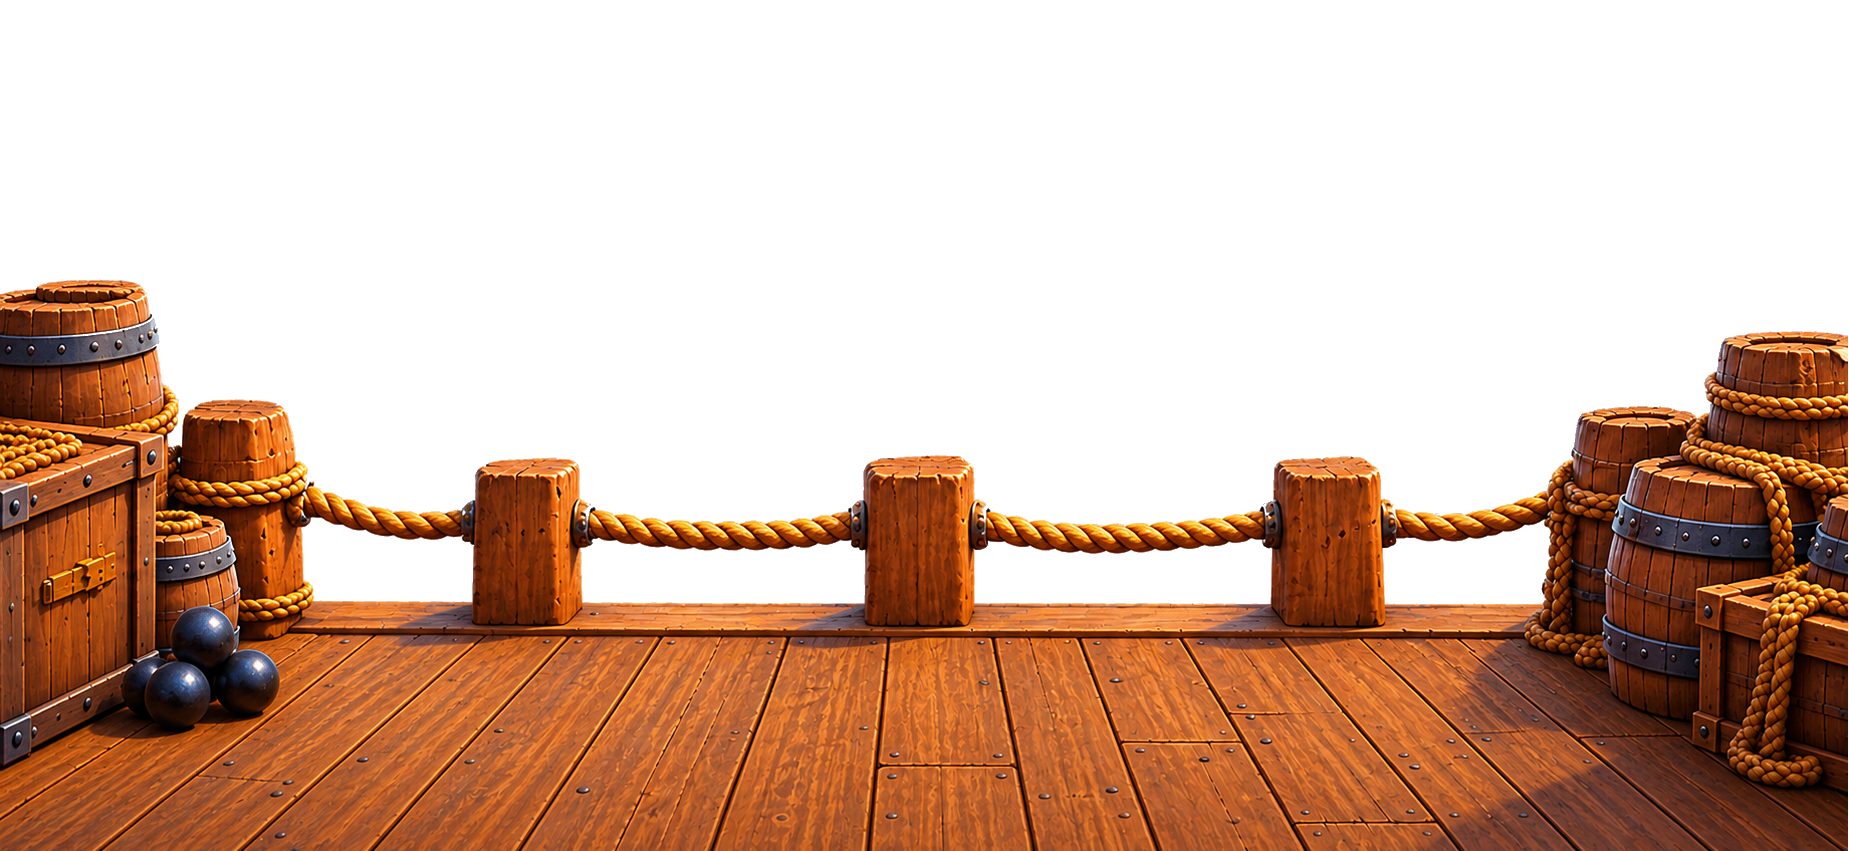
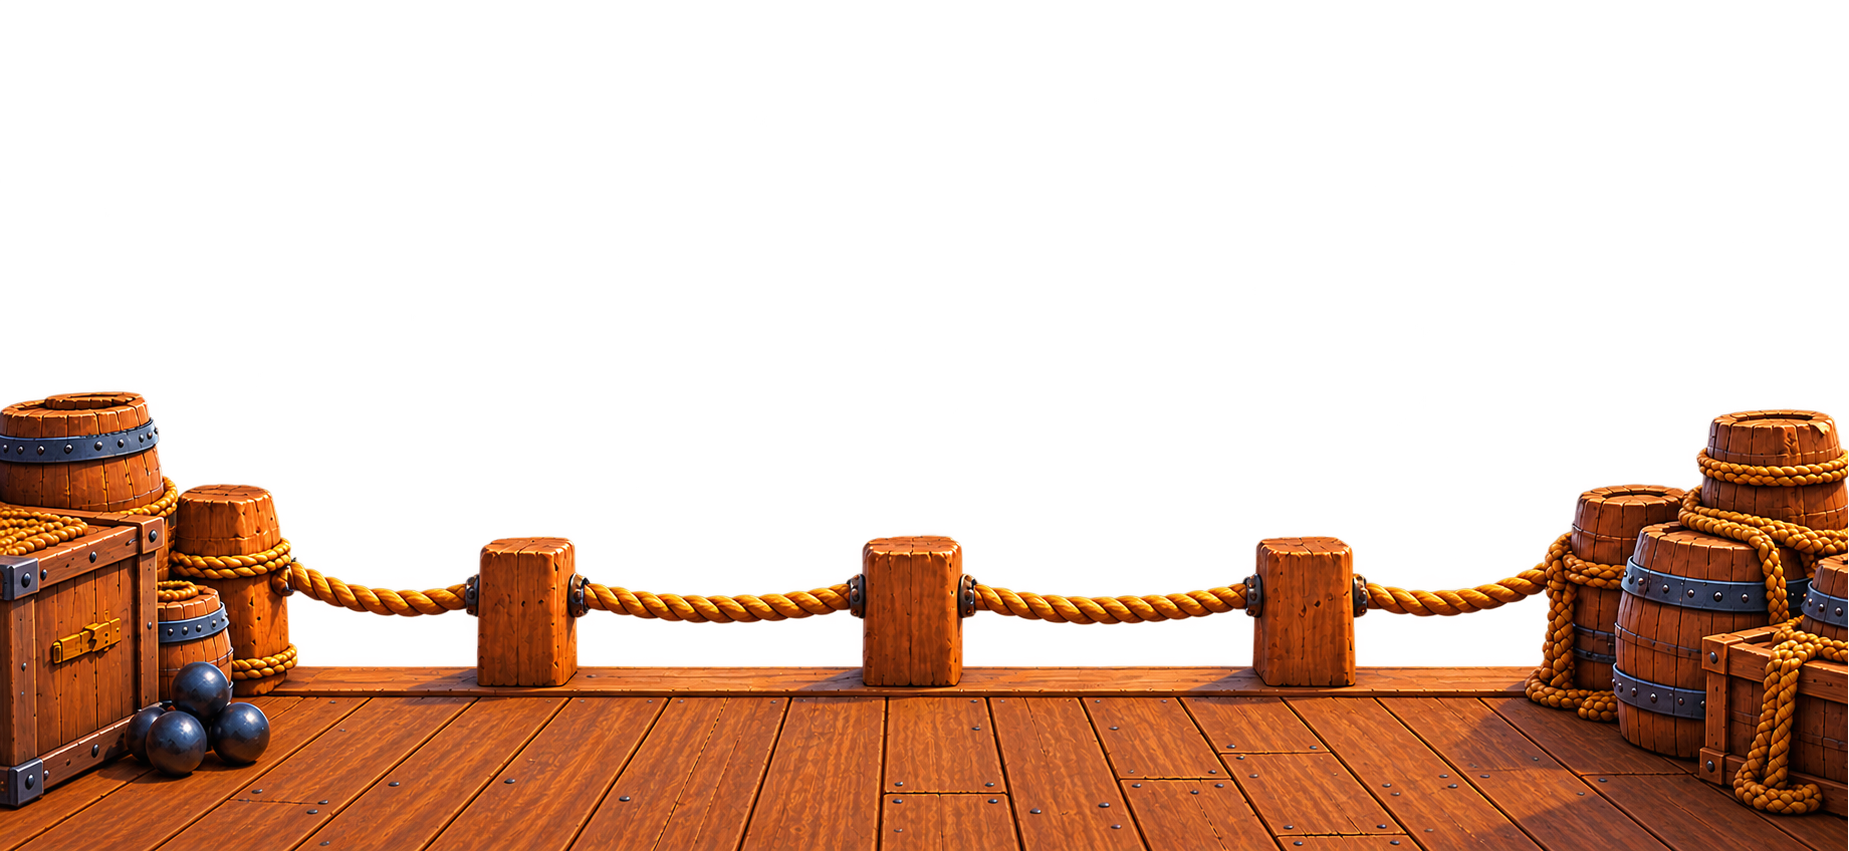
Adding in the correct foreground for pirate blaster

diff --git a/app/src/main/java/com/spellarcade/app/ui/screens/games/PirateBlasterScreen.kt b/app/src/main/java/com/spellarcade/app/ui/screens/games/PirateBlasterScreen.kt
@@ -343,12 +343,12 @@ fun PirateBlasterScreen(
         // ===================== ADJUSTABLE SETTINGS =====================
         var backgroundScrollSpeed by remember { mutableFloatStateOf(105f) }   // pixels per second
         var zoomFactor by remember { mutableFloatStateOf(1.0f) }           // 1.0 = exact height, higher = zoom in
-        var backgroundVerticalOffset by remember { mutableFloatStateOf(-50f) } // dp (0 = aligned to top)
+        var backgroundVerticalOffset by remember { mutableFloatStateOf(-40f) } // dp (0 = aligned to top)
         var cannonBottomPadding by remember { mutableFloatStateOf(40f) } // Lower toward bottom of screen
-        var cannonScale by remember { mutableFloatStateOf(1.7f) } // Cannon scale factor
-        var heroBottomPadding by remember { mutableFloatStateOf(130f) }
+        var cannonScale by remember { mutableFloatStateOf(1.3f) } // Cannon scale factor
+        var heroBottomPadding by remember { mutableFloatStateOf(120f) }
         var heroHorizontalOffset by remember { mutableFloatStateOf(200f) } // Horizontal offset (+ right, - left)
-        var parrotBottomPadding by remember { mutableFloatStateOf(170f) }
+        var parrotBottomPadding by remember { mutableFloatStateOf(135f) }
         var parrotStartPadding by remember { mutableFloatStateOf(70f) }
         var foregroundWidthScale by remember { mutableFloatStateOf(1.02f) } // 1.02 = slightly wider to cover edge gaps
         var foregroundScale by remember { mutableFloatStateOf(1.15f) } // Overscan/bleed scale to cover edges during rocking rotation
@@ -356,7 +356,7 @@ fun PirateBlasterScreen(
         var barrelLetterVerticalOffset by remember { mutableFloatStateOf(0f) } // Vertical offset for barrel letters (+ down, - up)
         var heroScale by remember { mutableFloatStateOf(0.25f) } // Hero avatar scale factor (smaller = smaller hero)
         var foregroundVerticalOffset by remember { mutableFloatStateOf(50f) } // Vertical offset for foreground dock (+ down, - up)
-        var wordDisplayBottomPadding by remember { mutableFloatStateOf(16f) } // Bottom padding for missing letters word display
+        var wordDisplayBottomPadding by remember { mutableFloatStateOf(5f) } // Bottom padding for missing letters word display
 // ===============================================================
 
         val density = LocalDensity.current
